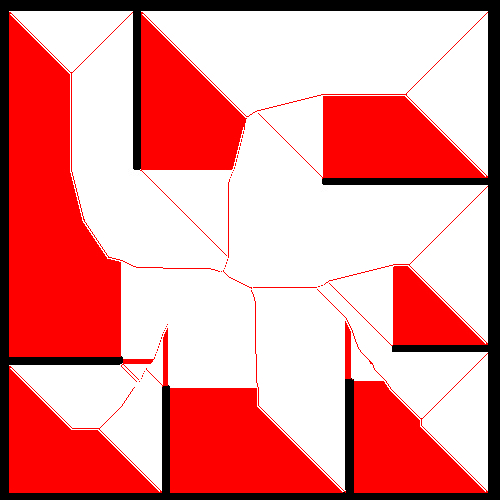
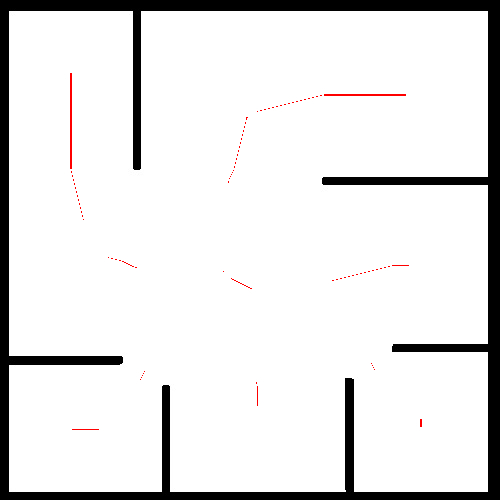
Changed Approach For Barycenter selection
- Changed approach for reducing barycenters
- Optimized creation of debug image
- Changed DFS from a recursive
 implementation to a iterative implementation
- Fixed bug in distance calculation

diff --git a/src/lib/simulation/simulated_map.hpp b/src/lib/simulation/simulated_map.hpp
@@ -9,6 +9,7 @@
 #define FCPP_SIMULATED_MAP_H_
 
 #include <cstring>
+#include <stack>
 
 #include "lib/common/traits.hpp"
 #include "lib/component/base.hpp"
@@ -261,8 +262,7 @@ struct simulated_map {
             void mark_potential_points(std::string const& path) {
 
                 constexpr static std::array<std::array<int, 2>, 8> deltas = {{{-1, 0}, {1, 0}, {0, 1}, {0, -1}, {1, 1}, {-1, 1}, {1, -1}, {-1, -1}}};
-                int bitmap_width, bitmap_height, channels_per_pixel, row_index, col_index = 0;
-                color pnt_color = color(RED);
+                int bitmap_width, bitmap_height, channels_per_pixel, row_index, col_index;
                 std::string real_path;
 #if _WIN32
                 real_path = std::string(".\\textures\\").append(path);
@@ -273,70 +273,50 @@ struct simulated_map {
                 unsigned char *bitmap_data = stbi_load(real_path.c_str(), &bitmap_width, &bitmap_height, &channels_per_pixel, 3);
                 if (bitmap_data == nullptr) throw std::runtime_error("Error in image loading");
 
-                unsigned char *pixelOffset = bitmap_data;
-
-                unsigned char *debug_img = (unsigned char*) malloc(bitmap_width * bitmap_height * channels_per_pixel);
-                if (debug_img == nullptr) {
-                    throw std::runtime_error("Unable to allocate memory for the debug image");
-                }
-
-                unsigned char* f_image = debug_img;
-
                 std::vector<std::vector<bool>> visited(m_bitmap.size(), std::vector<bool>(m_bitmap[0].size()));
                 std::vector<std::vector<std::pair<index_type,color>>> draw_buffers;
+                std::vector<std::pair<index_type,int>> point_values;
 
                 //prepare 2 buffers
                 draw_buffers.emplace_back();
                 draw_buffers.emplace_back();
 
                 row_index = bitmap_height - 1;
+                col_index = 0;
 
                 while (row_index >= 0) {
 
                     if(!m_bitmap[row_index][col_index]) {
 
-                        int distance = get_distance(m_closest[row_index][col_index], col_index, row_index);
-                        int sum = 0;
+                        if (col_index >= 0 && col_index < m_bitmap[0].size() && row_index >= 0 && row_index < m_bitmap.size() && !m_bitmap[row_index][col_index]) {
 
-                        bool max = true;
-                        for (std::array<int, 2> const &d: deltas) {
-                            size_t n_x = col_index + d[0];
-                            size_t n_y = row_index + d[1];
-                            if (n_x >= 0 && n_x < m_bitmap[0].size() && n_y >= 0 && n_y < m_bitmap.size() && !m_bitmap[n_y][n_x]) {
-                                int n_distance = get_distance(m_closest[n_y][n_x], n_x, n_y);
-                                max &= distance >= n_distance;
-                                sum += std::max(n_distance - distance, int(0));
+                            int distance = get_distance(m_closest[row_index][col_index], col_index, row_index);
+                            bool max = true;
+                            for (std::array<int, 2> const &d: deltas) {
+                                size_t n_x = col_index + d[0];
+                                size_t n_y = row_index + d[1];
+                                if (n_x >= 0 && n_x < m_bitmap[0].size() && n_y >= 0 && n_y < m_bitmap.size() && !m_bitmap[n_y][n_x]) {
+                                    int n_distance = get_distance(m_closest[n_y][n_x], n_x, n_y);
+                                    max &= distance >= n_distance;
+                                }
+                            }
+
+                            if (max) {
+                                index_type t;
+                                t[0] = col_index;
+                                t[1] = row_index;
+                                draw_buffers[0].emplace_back(t, color(RED));
+
+                                if (!visited[row_index][col_index]) {
+                                    std::cout << "STARTED" << std::endl;
+                                    index_type b = start_it_dfs(visited, row_index, col_index);
+                                    std::cout << "ENDED" << std::endl;
+                                    draw_buffers[1].emplace_back(b, color(BLUE));
+                                }
                             }
                         }
-
-                        if (sum <= 2) {
-
-                            index_type t;
-                            t[0] = col_index;
-                            t[1] = row_index;
-                            draw_buffers[0].emplace_back(t, color(RED));
-                            std::cout<<"sum: "<<sum<<std::endl;
-
-                            /*
-                            if (!visited[row_index][col_index]) {
-                                std::cout<<"STARTED"<<std::endl;
-                                index_type b = start_dfs(visited, row_index, col_index, col_index, row_index, 1);
-                                std::cout<<"ENDED"<<std::endl;
-                                draw_buffers[1].emplace_back(b, color(BLUE));
-                            }
-                             */
-
-
-                        }
-
-                        for (int j = 0; j < channels_per_pixel; j++)
-                            debug_img[j] = pixelOffset[j];
                     }
-
                     col_index++;
-                    pixelOffset += channels_per_pixel;
-                    debug_img += channels_per_pixel;
-
                     if (col_index == bitmap_width) {
                         row_index--;
                         col_index = 0;
@@ -344,16 +324,12 @@ struct simulated_map {
                 }
 
                 for (std::vector<std::pair<index_type,color>> const& p_buffer : draw_buffers) {
-
                     for (std::pair<index_type, color> t: p_buffer) {
-
-                        write_point_on_image(f_image, visited, t.first[1], t.first[0], bitmap_width, channels_per_pixel,
-                                             t.second);
-
+                        write_point_on_image(bitmap_data, visited, t.first[1], t.first[0], bitmap_width, channels_per_pixel, t.second);
                     }
                 }
 
-                stbi_write_jpg("debugPoints.jpg", bitmap_width, bitmap_height, 3, f_image, 100);
+                stbi_write_jpg("debugPoints.jpg", bitmap_width, bitmap_height, 3, bitmap_data, 100);
 
                 stbi_image_free(bitmap_data);
 
@@ -361,50 +337,74 @@ struct simulated_map {
 
             void write_point_on_image(unsigned char* pointer, std::vector<std::vector<bool>>& visited, int row, int col, int bitmap_width, int channels, color clr) {
 
-                for (int j = 0; j < channels; j++)
-                    (pointer + (channels * ((bitmap_width - row) * bitmap_width + col)))[j] = clr.rgba[j] * 255;
-
-                visited[row][col] = true;
-
+                if(col >= 0 && col < m_bitmap[0].size() && row >= 0 && row < m_bitmap.size()) {
+                    for (int j = 0; j < channels; j++) {
+                        (pointer + (channels * ((bitmap_width - row) * bitmap_width + col)))[j] = clr.rgba[j] * 255;
+                    }
+                    visited[row][col] = true;
+                }
             }
 
             int get_distance(index_type const& closest, int x, int y) {
 
-                int deltaX = closest[0] - x;
-                int deltaY = closest[1] - y;
+                int deltaX = std::abs((int)closest[0] - x);
+                int deltaY = std::abs((int)closest[1] - y);
 
-                return std::abs(std::min(deltaX, deltaY) + (2 * std::max(deltaX, deltaY)));
+                return std::min(deltaX, deltaY) + (2 * std::max(deltaX, deltaY));
 
             }
 
-            index_type start_dfs(std::vector<std::vector<bool>>& visited, int row_index, int column_index, int x_sum, int y_sum, int count) {
+
+            index_type start_it_dfs(std::vector<std::vector<bool>>& visited, int row_index, int column_index) {
 
                 constexpr static std::array<std::array<int, 2>, 8> deltas = {{{-1, 0}, {1, 0}, {0, 1}, {0, -1}, {1, 1}, {-1, 1}, {1, -1}, {-1, -1}}};
 
-                visited[row_index][column_index] = true;
-                index_type type;
-                type[0] = column_index;
-                type[1] = row_index;
-                std::cout<<"x: "<<column_index<<" "<<"y: "<<row_index<<std::endl;
+                std::stack<std::pair<std::pair<size_t,size_t>,int>> stack;
+                int tollerance = 15;
+                int x_sum = 0,y_sum = 0,count = 0;
 
-                for (std::array<int,2> const& d : deltas) {
-                    size_t n_x = column_index + d[0];
-                    size_t n_y = row_index + d[1];
-                    if (n_x >= 0 && n_x < m_bitmap[0].size() && n_y >= 0 && n_y < m_bitmap.size() && !m_bitmap[n_y][n_x] && !visited[n_y][n_x]) {
-                        real_t distance_n = get_distance(m_closest[n_y][n_x], n_x, n_y);
-                        bool max = true;
-                        real_t sum = 0;
-                        for (std::array<int, 2> const& d: deltas) {
-                            size_t n_x2 = n_x + d[0];
-                            size_t n_y2 = n_y + d[1];
-                            if (n_x2 >= 0 && n_x2< m_bitmap[0].size() && n_y2 >= 0 && n_y2 < m_bitmap.size() && !m_bitmap[n_y2][n_x2]) {
-                                real_t n_distance = get_distance(m_closest[n_y2][n_x2], n_x2, n_y2);
-                                max &= distance_n >= n_distance;
-                                sum += std::max(distance_n - n_distance, real_t(0));
+
+                stack.push({{column_index, row_index},tollerance});
+
+                while(!stack.empty()) {
+
+                    std::pair<std::pair<size_t,size_t>,int> p = stack.top();
+                    stack.pop();
+
+                    visited[p.first.second][p.first.first] = true;
+
+                    if (p.second == 0) continue;
+
+                    if(p.second == tollerance) {
+                        count++;
+                        x_sum += p.first.first;
+                        y_sum += p.first.second;
+                    }
+
+                    for (std::array<int, 2> const &d: deltas) {
+
+                        size_t n_x = p.first.first + d[0];
+                        size_t n_y = p.first.second + d[1];
+
+                        if (n_x >= 0 && n_x < m_bitmap[0].size() && n_y >= 0 && n_y < m_bitmap.size() && !m_bitmap[n_y][n_x] && !visited[n_y][n_x]) {
+
+                            int distance_n = get_distance(m_closest[n_y][n_x], n_x, n_y);
+                            bool max = true;
+                            for (std::array<int, 2> const &d: deltas) {
+                                size_t n_x2 = n_x + d[0];
+                                size_t n_y2 = n_y + d[1];
+                                if (n_x2 >= 0 && n_x2 < m_bitmap[0].size() && n_y2 >= 0 && n_y2 < m_bitmap.size() &&
+                                    !m_bitmap[n_y2][n_x2]) {
+                                    int n_distance = get_distance(m_closest[n_y2][n_x2], n_x2, n_y2);
+                                    max &= distance_n >= n_distance;
+                                }
                             }
-                        }
-                        if (max && sum <= 6) {
-                            return start_dfs(visited, n_y, n_x, x_sum + n_x, y_sum + n_y, count+1);
+
+                            if (max) {
+                                stack.push({{n_x, n_y},tollerance});
+                            } else if (p.second > 0) {
+                                stack.push({{n_x, n_y},p.second-1});
+                            }
                         }
                     }
                 }
